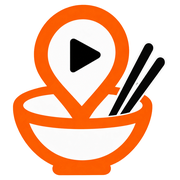
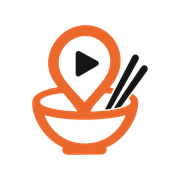
로고·파비콘 교체: 로고는 1024px 투명 PNG(크기별 64~512), 파비콘은 흰 원 안 로고 · 캐시 때문에 주소 ?v=4

diff --git a/public/map.html b/public/map.html
@@ -4,10 +4,10 @@
 <!-- 로컬 개발용. 카카오는 Referer로 도메인을 검사하는데, 아직 등록이 반영되지 않아
      Referer를 보내지 않는 방식으로 우회합니다. 도메인 등록이 확인되면 이 줄을 지우세요. -->
 <title>르슐랭 가이드 — 카카오맵</title>
-<link rel="icon" type="image/png" sizes="32x32" href="/lesulin-icon-32.png">
-<link rel="icon" type="image/png" sizes="192x192" href="/lesulin-icon-192.png">
-<link rel="shortcut icon" href="/lesulin-favicon.ico">
-<link rel="apple-touch-icon" href="/img/brand/apple-icon.png?v=3">
+<link rel="icon" type="image/png" sizes="32x32" href="/lesulin-icon-32.png?v=4">
+<link rel="icon" type="image/png" sizes="192x192" href="/lesulin-icon-192.png?v=4">
+<link rel="shortcut icon" href="/lesulin-favicon.ico?v=4">
+<link rel="apple-touch-icon" href="/img/brand/apple-icon.png?v=4">
 <link rel="preconnect" href="https://fonts.googleapis.com">
 <link rel="preconnect" href="https://fonts.gstatic.com" crossorigin>
 <link rel="stylesheet" href="https://fonts.googleapis.com/css2?family=IBM+Plex+Mono:wght@400;500;600&family=Noto+Sans+KR:wght@300;400;500;700;900&display=swap">
@@ -532,7 +532,7 @@ body.resizing-y,body.resizing-y *{cursor:row-resize!important;user-select:none}
     <div class="sidewrap">
       <button class="grip L" id="gripL" aria-label="왼쪽 바 폭 조절"></button>
     <div class="topleft">
-    <a class="brand" href="/" title="처음 화면으로 — 유튜버 바꾸기"><img class="mark" src="/img/brand/logo-64.png?v=3" alt="" width="28" height="28"><b>르슐랭 가이드</b></a>
+    <a class="brand" href="/" title="처음 화면으로 — 유튜버 바꾸기"><img class="mark" src="/img/brand/logo-64.png?v=4" alt="" width="28" height="28"><b>르슐랭 가이드</b></a>
     </div>
       <aside class="side">
       <div class="sgrp">

diff --git a/public/index.html b/public/index.html
@@ -4,10 +4,10 @@
 <meta charset="utf-8">
 <meta name="viewport" content="width=device-width, initial-scale=1, viewport-fit=cover">
 <title>르슐랭 가이드</title>
-<link rel="icon" type="image/png" sizes="32x32" href="/lesulin-icon-32.png">
-<link rel="icon" type="image/png" sizes="192x192" href="/lesulin-icon-192.png">
-<link rel="shortcut icon" href="/lesulin-favicon.ico">
-<link rel="apple-touch-icon" href="/img/brand/apple-icon.png?v=3">
+<link rel="icon" type="image/png" sizes="32x32" href="/lesulin-icon-32.png?v=4">
+<link rel="icon" type="image/png" sizes="192x192" href="/lesulin-icon-192.png?v=4">
+<link rel="shortcut icon" href="/lesulin-favicon.ico?v=4">
+<link rel="apple-touch-icon" href="/img/brand/apple-icon.png?v=4">
 <meta name="description" content="좋아하는 유튜버가 간 식당, 다녀왔다고 적은 사람들은 뭐라고 했을까?">
 <link rel="preconnect" href="https://fonts.googleapis.com">
 <link rel="preconnect" href="https://fonts.gstatic.com" crossorigin>
@@ -174,7 +174,7 @@ h1 .ln{display:block;white-space:nowrap}
 <body>
 <div class="wrap">
   <nav>
-    <a class="brand" href="/"><img class="mark" src="/img/brand/logo-128.png?v=3" alt="" width="38" height="38">르슐랭 가이드</a>
+    <a class="brand" href="/"><img class="mark" src="/img/brand/logo-128.png?v=4" alt="" width="38" height="38">르슐랭 가이드</a>
     <div class="st" id="stats" hidden>
       <span><b id="statStores"></b>식당</span>
       <span><b id="statVideos"></b>영상</span>

diff --git a/src/app/layout.tsx b/src/app/layout.tsx
@@ -4,7 +4,7 @@ import "./globals.css";
 export const metadata: Metadata = {
   title: "르슐랭 가이드",
   description: "좋아하는 유튜버가 다녀간 식당을 지도에서 찾고, 원본 영상과 방문자 반응을 확인하세요.",
-  icons: { icon: [{ url: "/lesulin-icon-32.png", sizes: "32x32" }, { url: "/lesulin-icon-192.png", sizes: "192x192" }], shortcut: "/lesulin-favicon.ico", apple: "/img/brand/apple-icon.png?v=3" },
+  icons: { icon: [{ url: "/lesulin-icon-32.png?v=4", sizes: "32x32" }, { url: "/lesulin-icon-192.png?v=4", sizes: "192x192" }], shortcut: "/lesulin-favicon.ico?v=4", apple: "/img/brand/apple-icon.png?v=4" },
 };
 export const viewport: Viewport = {
   width: "device-width", initialScale: 1, maximumScale: 1, themeColor: "#FFFFFF",

diff --git a/src/app/admin/layout.tsx b/src/app/admin/layout.tsx
@@ -33,7 +33,7 @@ export default async function AdminLayout({ children }: { children: React.ReactN
               style={{ background: "var(--surface)", borderBottom: "1px solid var(--line)" }}>
         <b className="text-sm flex items-center gap-2">
           {/* eslint-disable-next-line @next/next/no-img-element */}
-          <img src="/img/brand/logo-64.png?v=3" alt="" width={24} height={24} style={{ borderRadius: 6 }} />
+          <img src="/img/brand/logo-64.png?v=4" alt="" width={24} height={24} style={{ borderRadius: 6 }} />
           르슐랭 운영
         </b>
         <nav className="flex gap-1">
